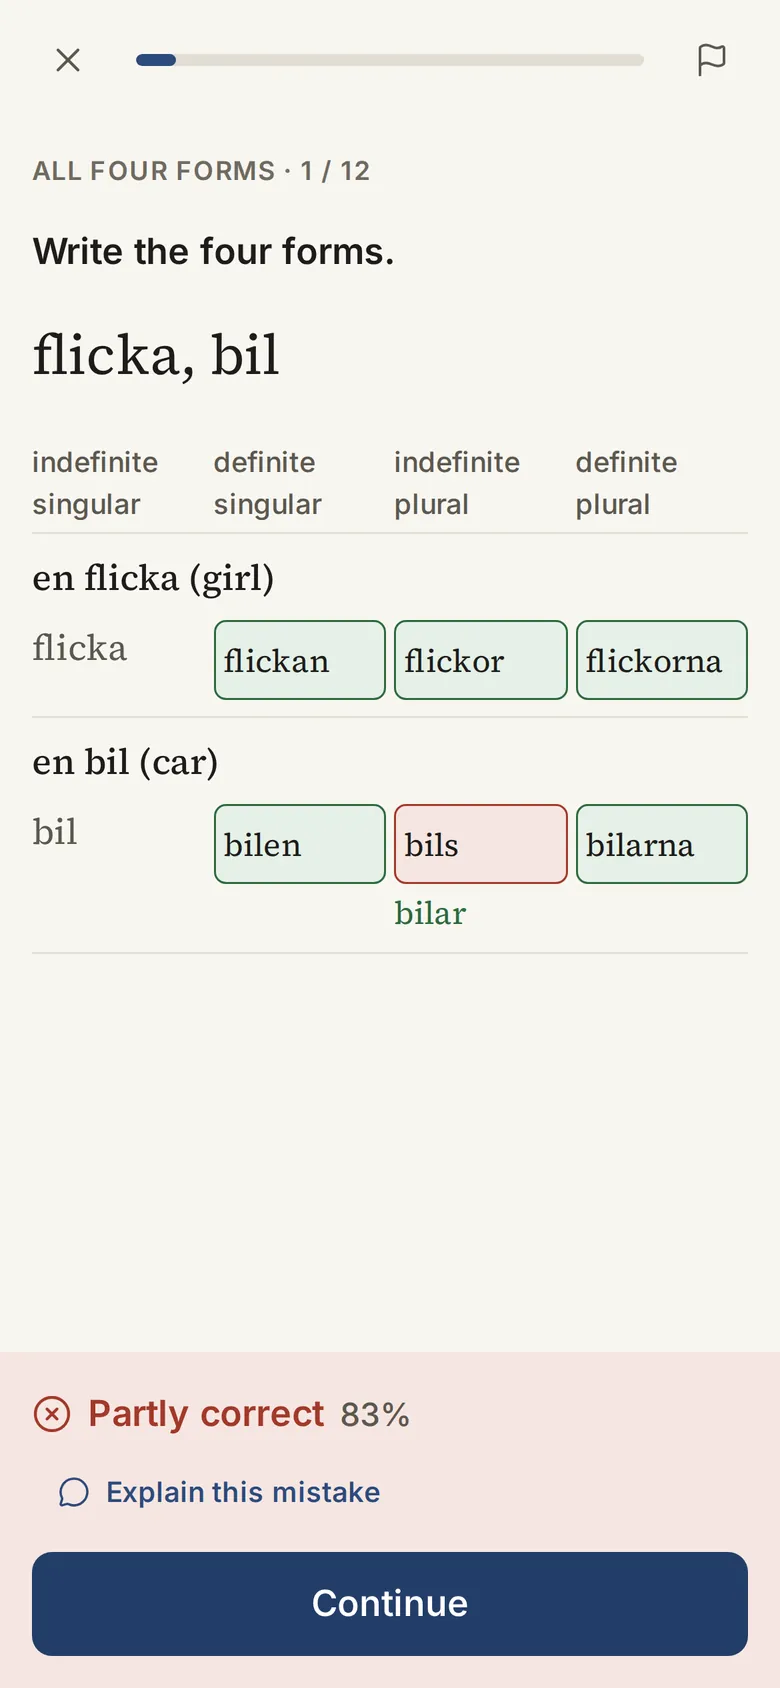
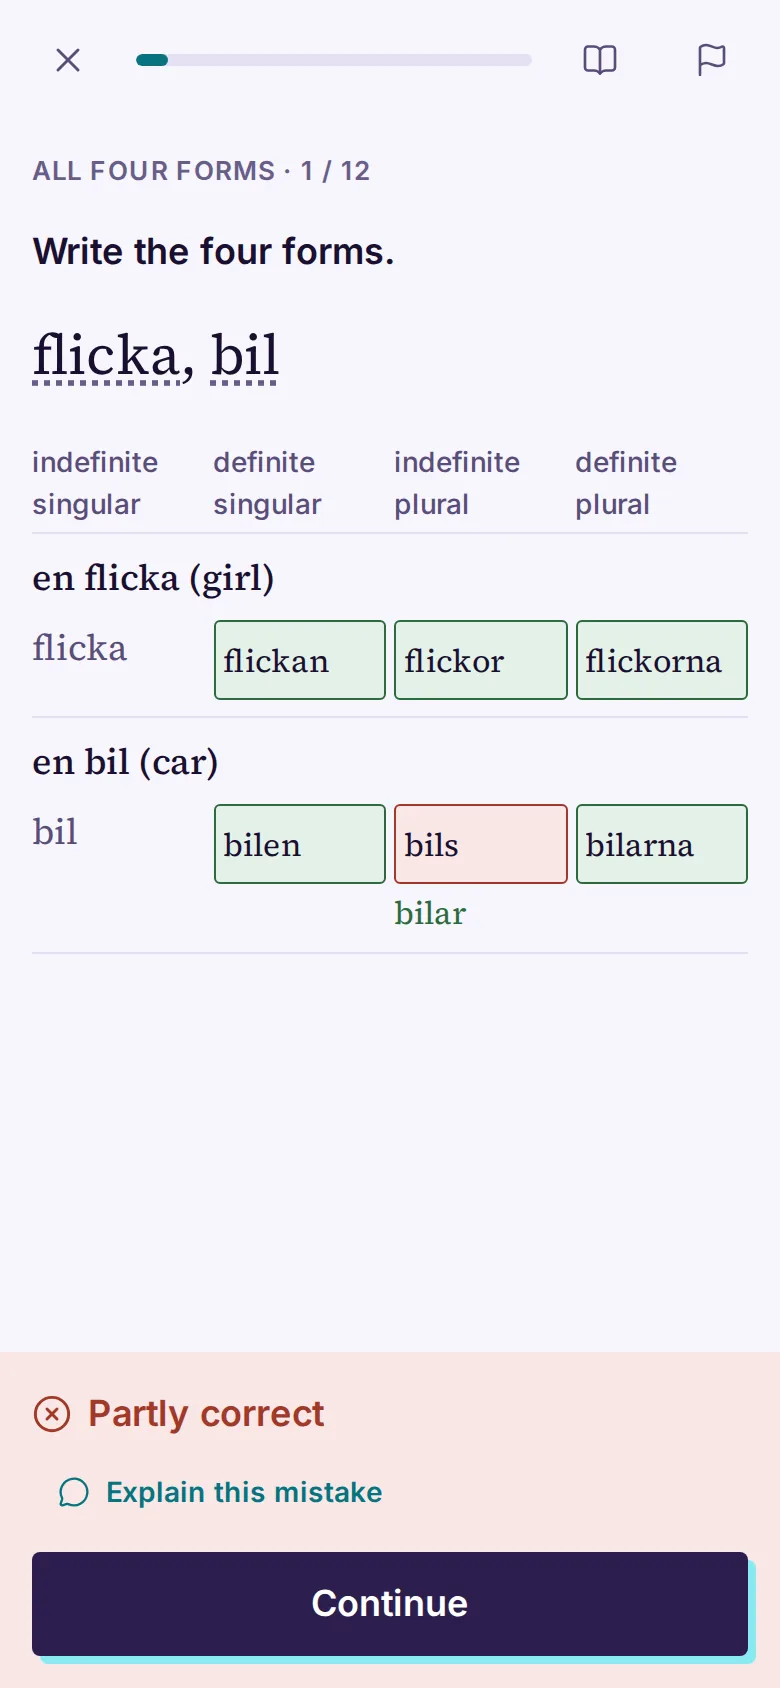
Retake the app screenshots in the new look

diff --git a/index.html b/index.html
@@ -1907,7 +1907,7 @@
               <p>See which form it is, what it means, an example, the full table of forms and the grammar it belongs to.</p>
             </li>
             <li class="screen">
-              <img src="screenshots/feedback.webp" width="780" height="1688" loading="lazy" alt="A Swedish exercise asking for the four forms of flicka and bil. One answer is marked wrong with the correct form, bilar, shown below it. Partly correct, 83%." />
+              <img src="screenshots/feedback.webp" width="780" height="1688" loading="lazy" alt="A Swedish exercise asking for the four forms of flicka and bil. One answer is marked wrong with the correct form, bilar, shown below it. The answer is marked partly correct." />
               <h3>Feedback that shows the fix</h3>
               <p>Each answer is marked on its own, with the correct form where you went wrong and an AI explanation one tap away.</p>
             </li>
